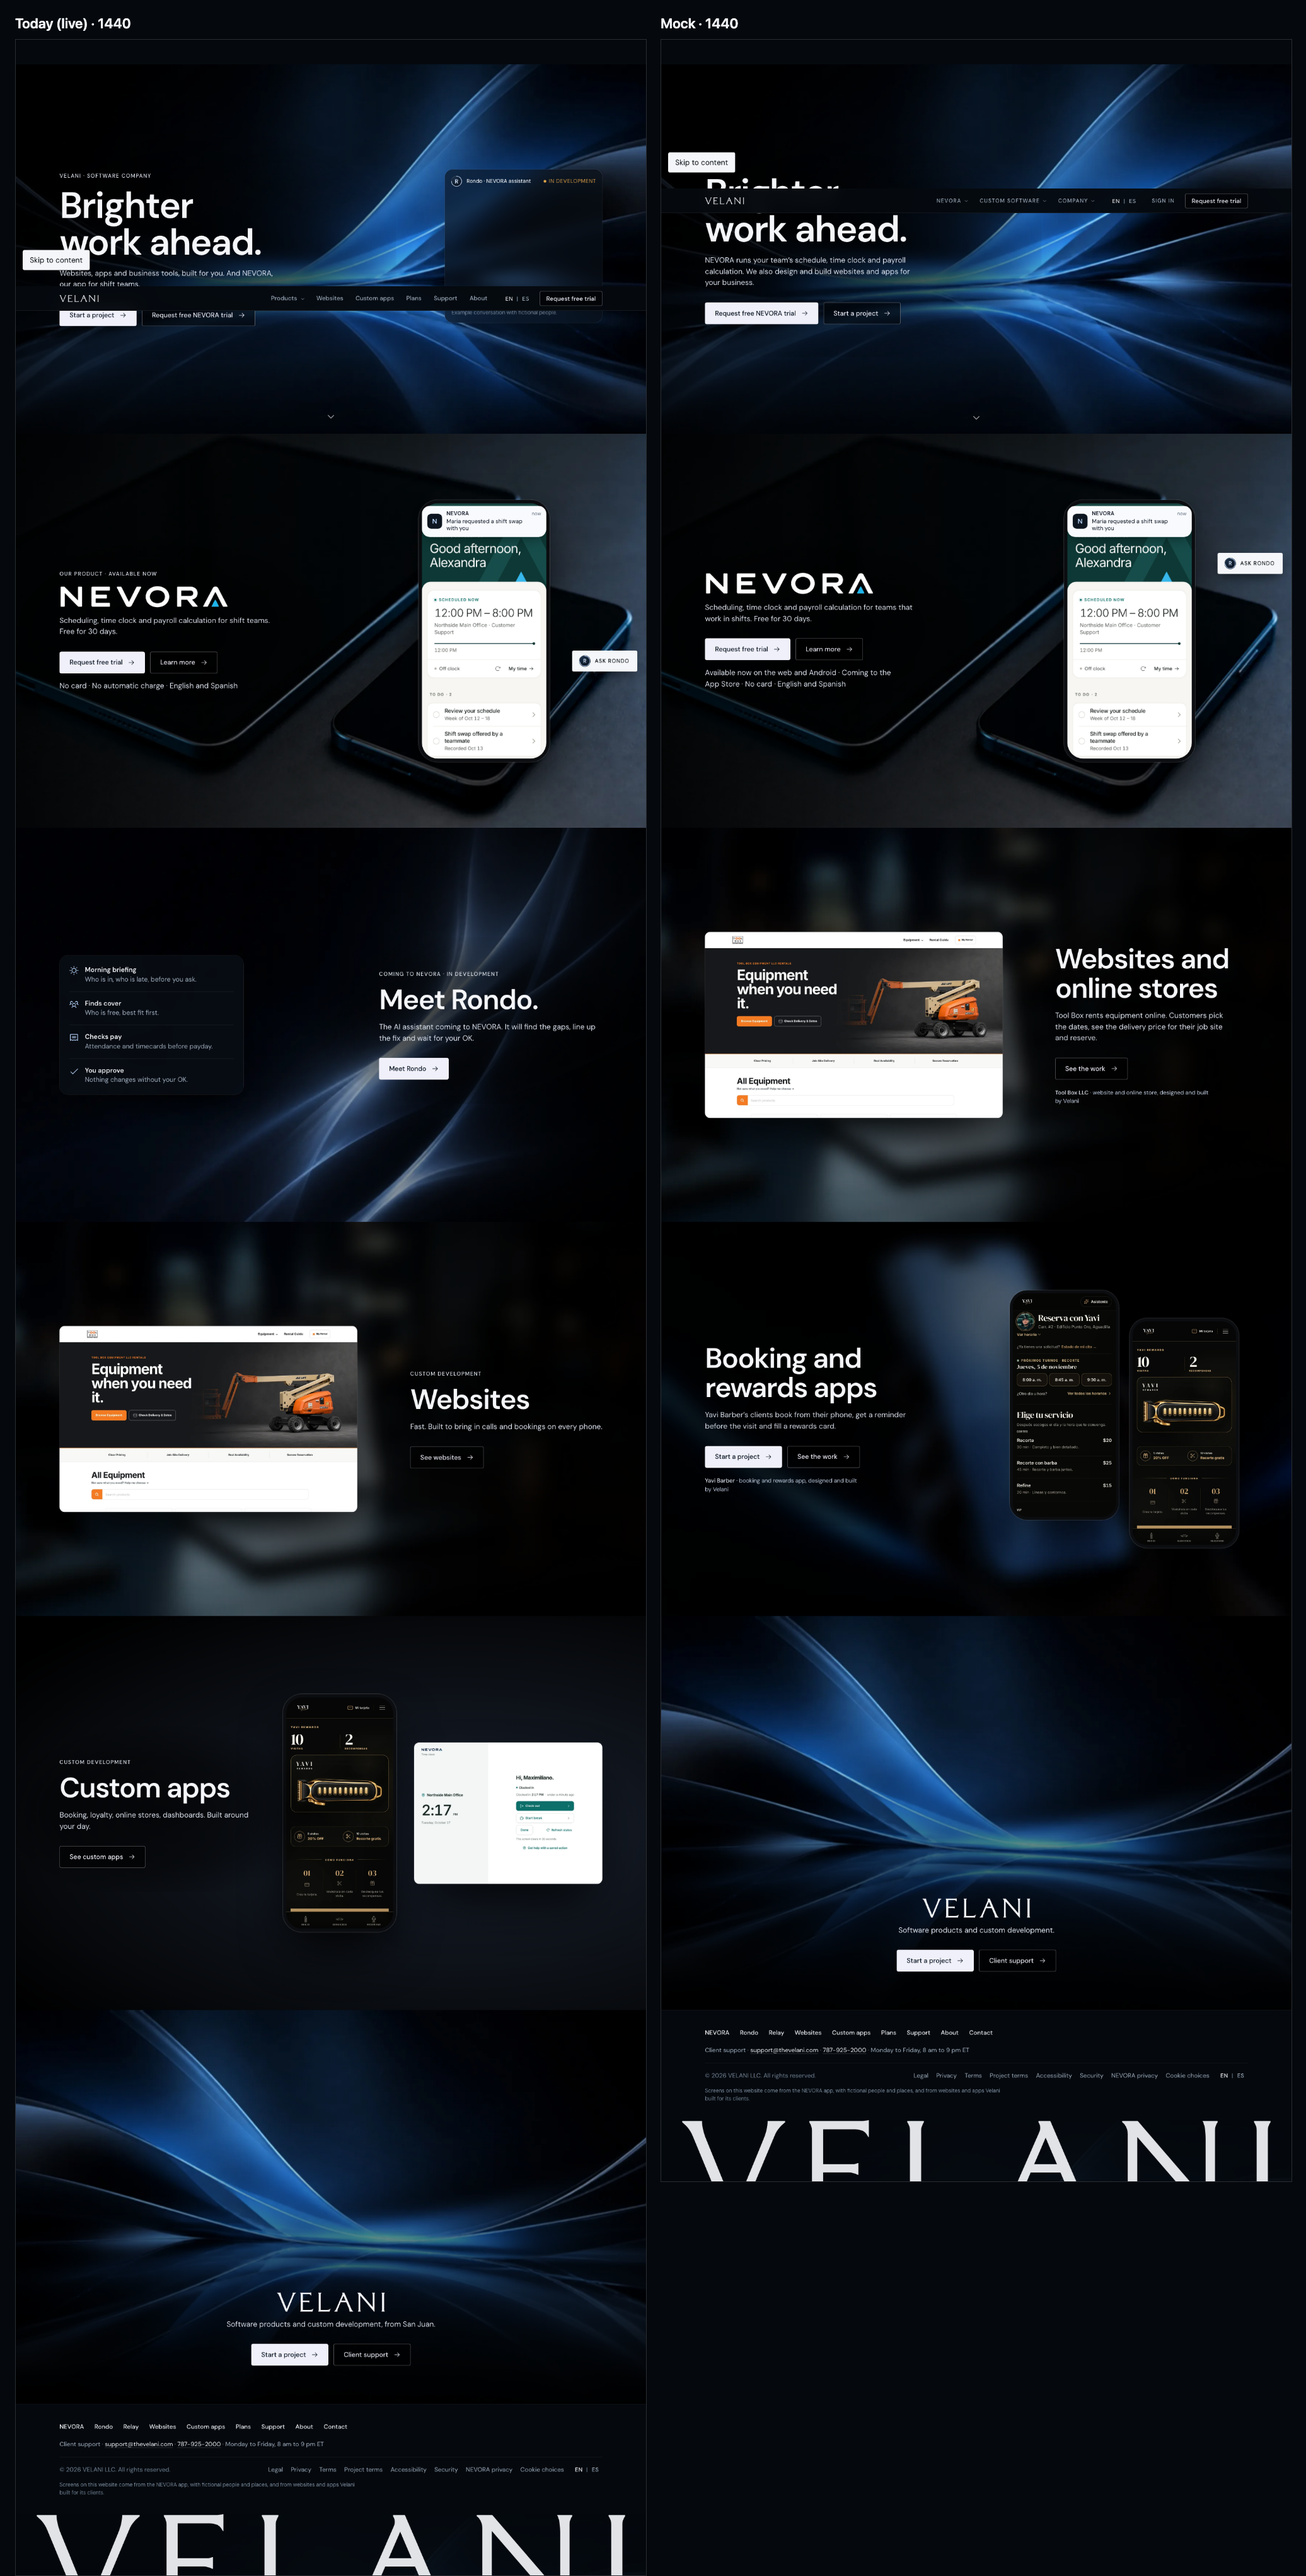
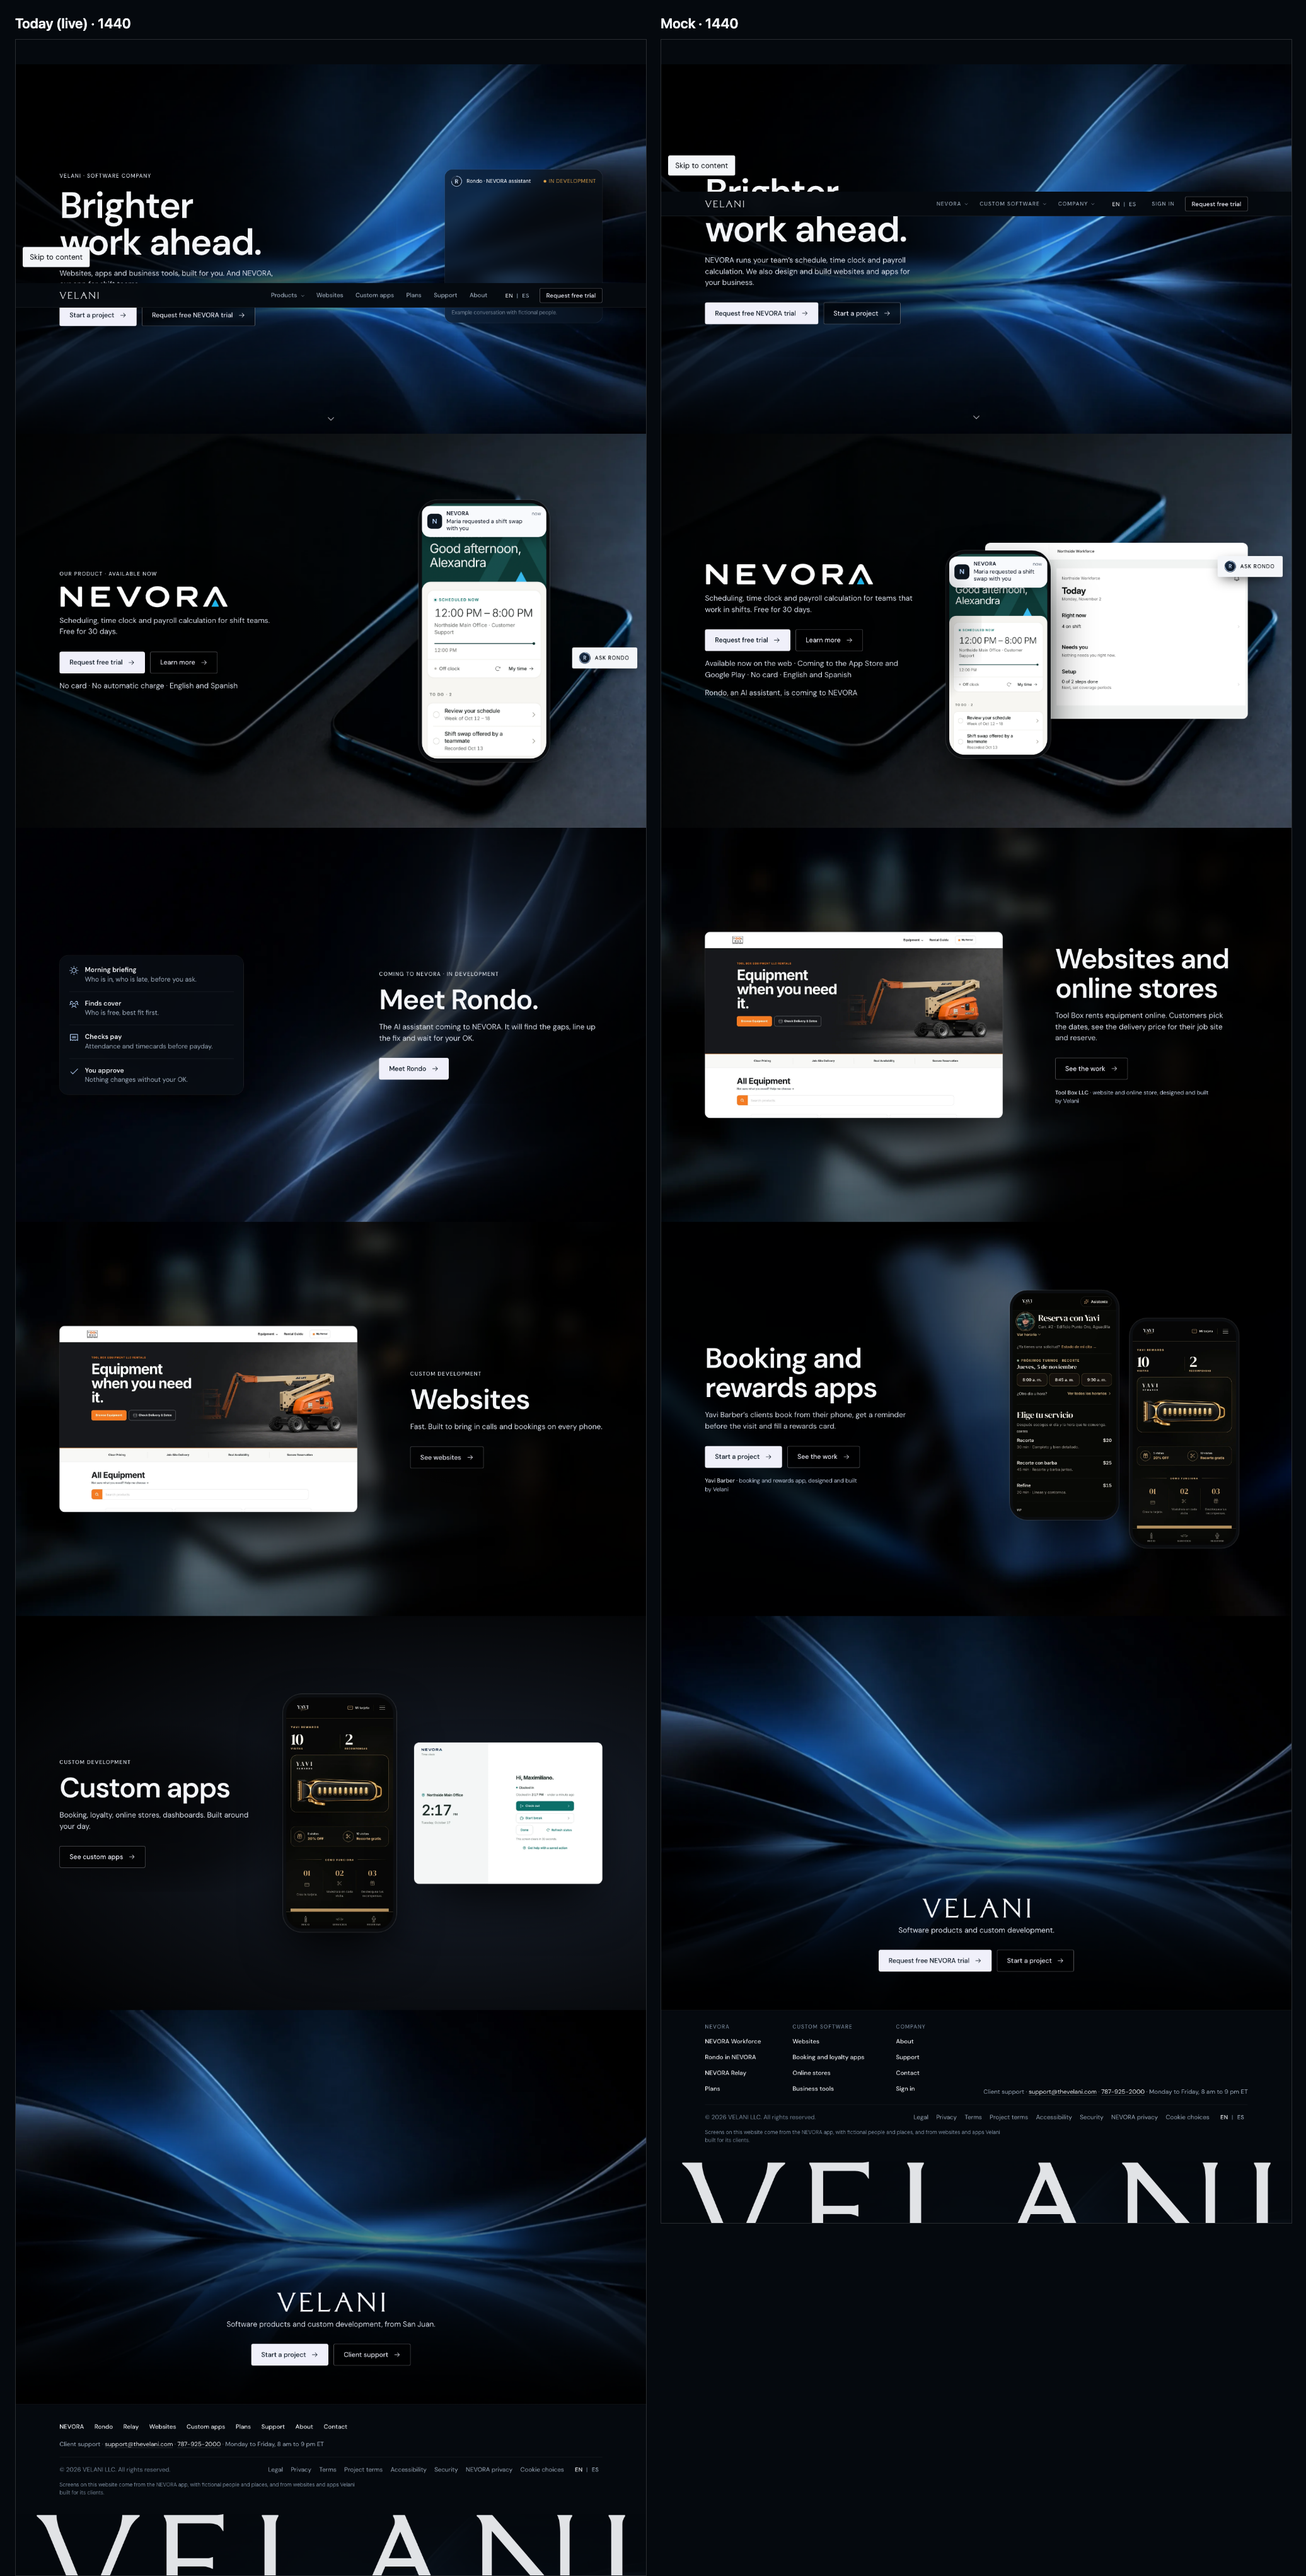
Home mock round 2: NEVORA on the web beside the phone, footer in the header's three groups, one Rondo line, closing offers trial or project
- NEVORA panel shows the owner's Today screen (.hweb, desktop 1181px and up) with the phone overlapping its left edge
- Footer links grouped as NEVORA / Custom software / Company with Sign in, EN and ES; labels use the phone menu's label style
- "Rondo, an AI assistant, is coming to NEVORA" under the NEVORA facts
- Closing buttons: Request free NEVORA trial, Start a project
- Hosted: menus pass in Chromium and WebKit (WebKit click-focus caveat), no sideways scroll at 1440/390

diff --git a/src/night/foot.es.html b/src/night/foot.es.html
@@ -1,7 +1,7 @@
 <footer class="foot">
  <div class="wrap">
   <div class="foot-row">
-   <nav class="foot-nav" aria-label="Pie de página"><a href="/pages/es-nevora">NEVORA</a><a href="/pages/es-nevora#rondo">Rondo</a><a href="/pages/es-productos#relay">Relay</a><a href="/pages/custom-development#web-applications" hreflang="en">Sitios web</a><a href="/pages/custom-development" hreflang="en">Apps a la medida</a><a href="/pages/es-planes">Planes</a><a href="/pages/es-ayuda">Soporte</a><a href="/pages/es-nosotros">Nosotros</a><a href="/pages/es-contacto">Contacto</a></nav>
+   <nav class="foot-nav grouped" aria-label="Pie de página"><div class="foot-grp"><p class="foot-k">NEVORA</p><a href="/pages/es-nevora">NEVORA Workforce</a><a href="/pages/es-nevora#rondo">Rondo en NEVORA</a><a href="/pages/es-productos#relay">NEVORA Relay</a><a href="/pages/es-planes">Planes</a></div><div class="foot-grp"><p class="foot-k">Software a la medida</p><a href="/pages/custom-development#web-applications" hreflang="en">Sitios web</a><a href="/pages/custom-development#booking" hreflang="en">Apps de reservas y lealtad</a><a href="/pages/custom-development#online-stores" hreflang="en">Tiendas en línea</a><a href="/pages/custom-development#business-systems" hreflang="en">Herramientas de negocio</a></div><div class="foot-grp"><p class="foot-k">Empresa</p><a href="/pages/es-nosotros">Nosotros</a><a href="/pages/es-ayuda">Soporte</a><a href="/pages/es-contacto">Contacto</a><a href="/pages/nevora-support" hreflang="en">Iniciar sesión</a></div></nav>
    <p class="foot-support">Soporte al cliente · <a class="ul" href="mailto:support@thevelani.com">support@thevelani.com</a> · <a class="ul" href="tel:+17879252000">787-925-2000</a> · lunes a viernes, 8&nbsp;a.&nbsp;m. a 9&nbsp;p.&nbsp;m. ET</p>
   </div>
   <div class="foot-legal">

diff --git a/src/night/home.body.html b/src/night/home.body.html
@@ -22,7 +22,9 @@
   <p class="fade">Scheduling, time clock and payroll calculation for teams that work in shifts. Free for 30 days.</p>
   <div class="hacts fade"><a class="hb fill" href="/pages/contact?interest=nevora-demo">Request free trial{{icon:arrow-right}}</a><a class="hb" href="/pages/nevora">Learn more{{icon:arrow-right}}</a></div>
   <p class="hfact fade">Available now on the web&nbsp;· Coming to the App&nbsp;Store and Google&nbsp;Play&nbsp;· No card&nbsp;· English&nbsp;and&nbsp;Spanish</p>
+  <p class="hfact fade"><a class="ul" href="/pages/nevora#rondo">Rondo, an AI assistant, is coming to NEVORA</a></p>
  </div>
+ <div class="hweb fade"><img src="img/owner.webp" alt="NEVORA on the web: the owner’s Today screen with who is on shift now" width="3000" height="2010" loading="lazy" decoding="async"></div>
  <div class="hshot fade"><img src="img/phone-long.webp" alt="NEVORA on an employee’s phone: her shift today and two things to do" width="1170" height="3936"><p class="notif"><span class="notif-ic" aria-hidden="true">N</span><span class="notif-t"><b>NEVORA</b><i>now</i></span><span class="notif-m">Maria requested a shift swap with you</span></p></div>
 </section>
 
@@ -56,7 +58,7 @@
  <div class="hcopy">
   <p class="hwm">{{wordmark}}</p>
   <p class="fade">Software products and custom development.</p>
-  <div class="hacts fade"><a class="hb fill" href="/pages/contact">Start a project{{icon:arrow-right}}</a><a class="hb" href="/pages/help">Client support{{icon:arrow-right}}</a></div>
+  <div class="hacts fade"><a class="hb fill" href="/pages/contact?interest=nevora-demo">Request free NEVORA trial{{icon:arrow-right}}</a><a class="hb" href="/pages/contact?interest=custom-software">Start a project{{icon:arrow-right}}</a></div>
  </div>
 </section>
 </main>

diff --git a/src/night/foot.html b/src/night/foot.html
@@ -1,7 +1,7 @@
 <footer class="foot">
  <div class="wrap">
   <div class="foot-row">
-   <nav class="foot-nav" aria-label="Footer"><a href="nevora.html">NEVORA</a><a href="nevora.html#rondo">Rondo</a><a href="/pages/products#relay">Relay</a><a href="/pages/custom-development#web-applications">Websites</a><a href="/pages/custom-development">Custom apps</a><a href="/pages/plans">Plans</a><a href="/pages/help">Support</a><a href="/pages/about">About</a><a href="/pages/contact">Contact</a></nav>
+   <nav class="foot-nav grouped" aria-label="Footer"><div class="foot-grp"><p class="foot-k">NEVORA</p><a href="nevora.html">NEVORA Workforce</a><a href="nevora.html#rondo">Rondo in NEVORA</a><a href="/pages/products#relay">NEVORA Relay</a><a href="/pages/plans">Plans</a></div><div class="foot-grp"><p class="foot-k">Custom software</p><a href="/pages/custom-development#web-applications">Websites</a><a href="/pages/custom-development#booking">Booking and loyalty apps</a><a href="/pages/custom-development#online-stores">Online stores</a><a href="/pages/custom-development#business-systems">Business tools</a></div><div class="foot-grp"><p class="foot-k">Company</p><a href="/pages/about">About</a><a href="/pages/help">Support</a><a href="/pages/contact">Contact</a><a href="/pages/nevora-support">Sign in</a></div></nav>
    <p class="foot-support">Client support · <a class="ul" href="mailto:support@thevelani.com">support@thevelani.com</a> · <a class="ul" href="tel:+17879252000">787-925-2000</a> · Monday to Friday, 8 am to 9 pm ET</p>
   </div>
   <div class="foot-legal">

diff --git a/src/night/polish.css b/src/night/polish.css
@@ -238,3 +238,11 @@ b.rmark,.hchat-h b.rmark,.rondo-kick .rmark,.ast-launch .rmark,.ast-head .rmark,
 /* Example chat header: a longer name (Spanish) moves the status label to its own line instead of past the card edge */
 .hchat-h{flex-wrap:wrap;row-gap:4px}
 .hchat-h span{min-width:0}
+
+/* Footer links in the header's three groups (Nov 7). Labels use the phone menu's .gmenu-k style; links keep .foot-nav a */
+.foot-nav.grouped{display:grid;grid-template-columns:repeat(3,max-content);gap:0 72px;margin-left:0;align-items:start}
+.foot-grp{display:flex;flex-direction:column;align-items:flex-start}
+.foot-nav.grouped a{min-height:36px;padding:0}
+.foot-k{margin:0 0 6px;font-size:0.75rem;font-weight:500;letter-spacing:.12em;text-transform:uppercase;color:var(--text-3)}
+.foot-row:has(.foot-nav.grouped){align-items:flex-end}
+@media(max-width:600px){.foot-nav.grouped{grid-template-columns:1fr 1fr;gap:20px 16px}.foot-nav.grouped a{min-height:44px}}

diff --git a/src/night/home.css b/src/night/home.css
@@ -42,3 +42,8 @@
 /* Client work on Home (Nov 7): same copy widths as the matching panels on Custom development, so the copy never runs under the screen */
 @media(min-width:834px){#websites .hcopy{max-width:440px}#apps .hph{object-position:0% 50%}#apps .hcopy{max-width:460px}}
 @media(max-width:833px){#apps .hcopy{display:flex;flex-direction:column;align-items:flex-start}#apps .hcopy>*{max-width:100%}#apps .hshade{background:linear-gradient(0deg,rgba(0,0,0,.95) 0%,rgba(0,0,0,.86) 44%,rgba(0,0,0,.45) 66%,rgba(0,0,0,0) 84%)}}
+@media(min-width:1181px){
+ #nevora .hweb{right:max(var(--pad),calc(50% - 620px));width:min(600px,42vw)}
+ #nevora .hshot{right:calc(max(var(--pad),calc(50% - 620px)) + min(600px,42vw) - 150px);width:240px;top:56%}
+ #nevora .hcopy{max-width:min(520px,calc(100% - var(--pad)*2 - min(600px,42vw) - 150px))}
+}
